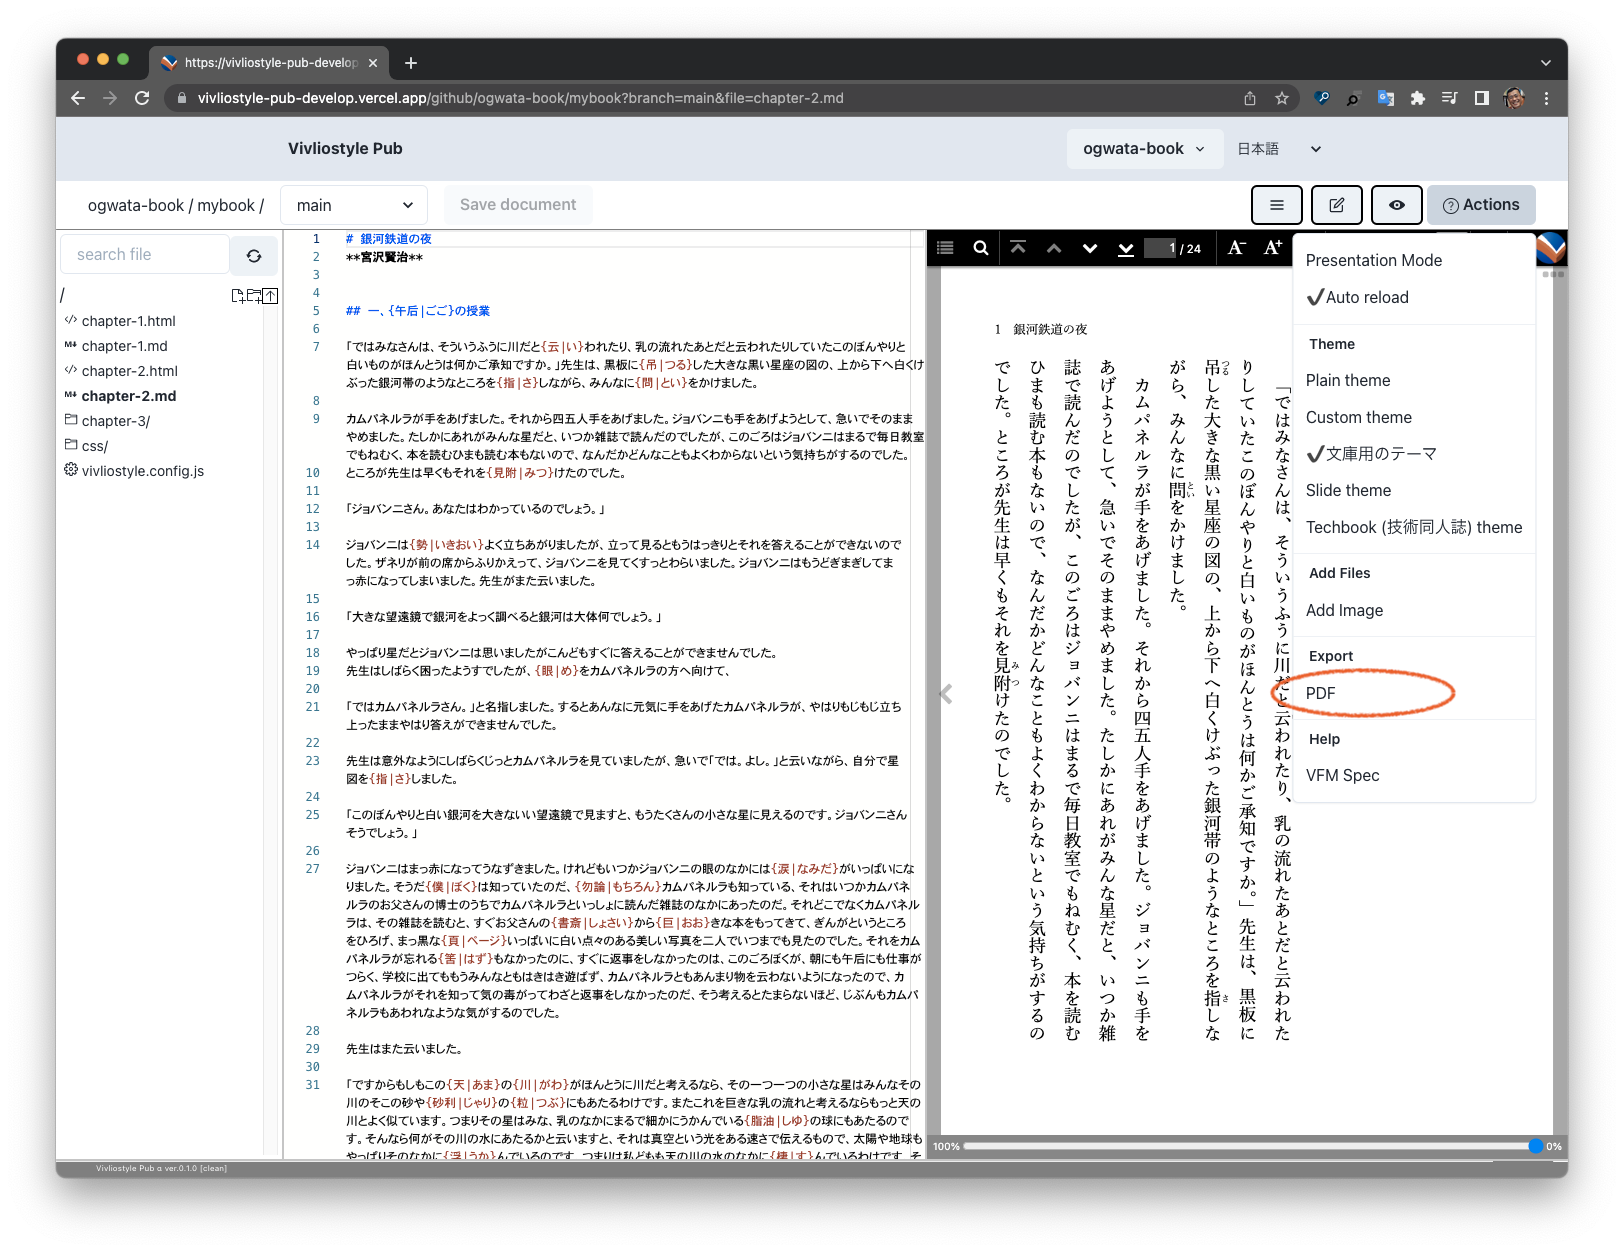
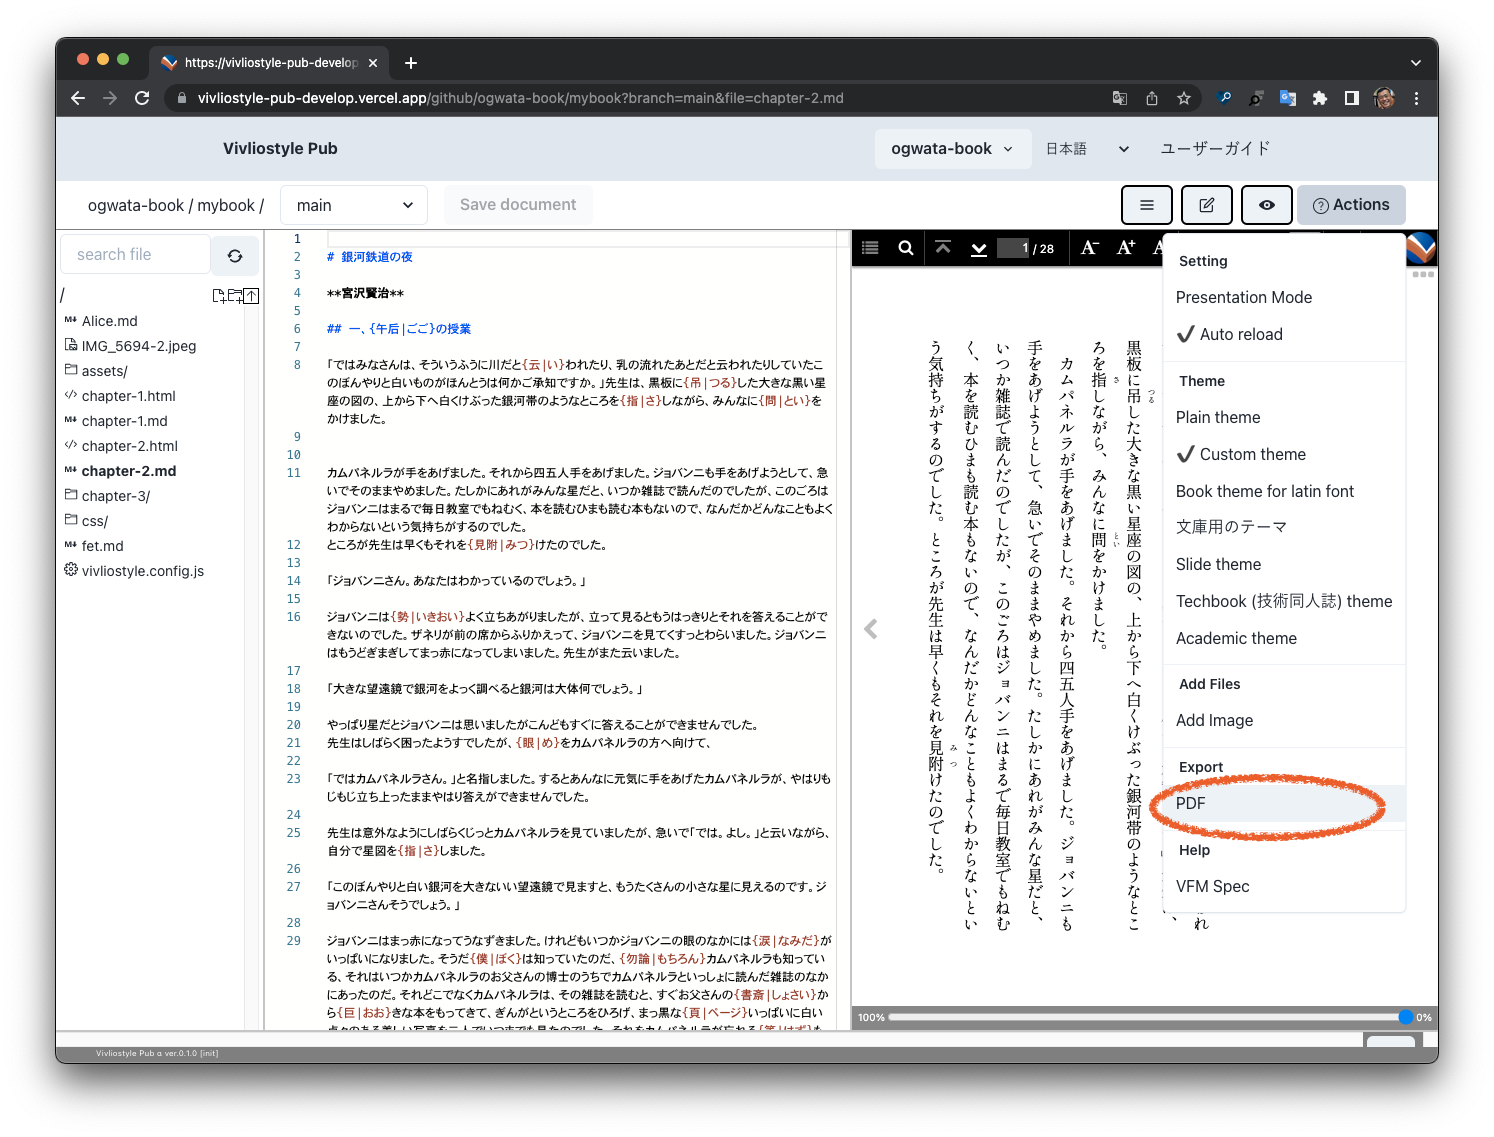
Export（PDF）

Changed region(s): [[0.0308, 0.0308, 0.9853, 0.9543]]

diff --git a/ja/functions-of-the-actions-menu/export.md b/ja/functions-of-the-actions-menu/export.md
@@ -2,6 +2,26 @@
 
 ## PDF
 
+ActionメニューでCustom themeが選択されている場合、PDFの出力ができます。
+
+出力されるファイルはvivliostyle.config.jsの記述にもとづきます（→[Theme（テーマの選択）> Custom theme](/ja/functions-of-the-actions-menu/theme.md#custom-theme)）。複数あるファイルのうち、特定のファイルだけをPDF出力したい場合は、vivliostyle.config.jsで出力したいファイルだけを記述するか、出力しないファイルをコメントアウトしてください。
+
+1. 「Actionメニュー > PDF」を選択します
+
 ![](images/functions-of-the-actions-menu/export/fig-1.png)
 
-PDFの出力は現在のバージョンでサポートされていません。
+2. すると、画面下端に「ビルドを開始しました」とメッセージが表示されます
+
+![](images/functions-of-the-actions-menu/export/fig-2.png)
+
+3. しばらく待つと、「以下のリンクをクリックして表示してください View  PDF」と表示されるので、「View  PDF」の部分をクリックしてください
+
+![](images/functions-of-the-actions-menu/export/fig-3.png)
+
+4. ブラウザのPDF閲覧画面に遷移します。ウィンドウ左上の下向き矢印「↓」（赤丸）をクリックするとPDFがダウンロードできます
+
+![](images/functions-of-the-actions-menu/export/fig-4.png)
+
+PDFを出力するしくみについては、下記も参照してください。
+
+- [文書の作成と保存 > フォントの指定方法 > フォントを表示するしくみ](/ja/create-and-save-documents/how-to-specify-fonts.md#フォントを表示するしくみ)

diff --git a/ja/functions-of-the-actions-menu/theme.md b/ja/functions-of-the-actions-menu/theme.md
@@ -36,13 +36,17 @@ Actionメニューの「Theme」の項目を選択することで、以下のテ
 
 ![ ](images/functions-of-the-actions-menu/theme/fig-3.png)
 
-この項目を選択すると、ユーザが作成した任意のスタイルシート（CSSファイル）が利用できます。vivliostyle.config.jsでスタイルシートのpathを指定してから（赤線部）、このメニュー項目を選択します。記法は下記の通りです。---の部分にpathを記述してください。
+この項目を選択すると、ユーザが作成した任意のスタイルシート（CSSファイル）が利用でき、さらにそのスタイルシートにもとづき、PDFの出力ができます（→[Export（PDF）](/ja/functions-of-the-actions-menu/export.md#export出力)）。
+
+vivliostyle.config.jsで以下のようにスタイルシートのpathを指定してください（赤線部）。記法は下記の通りです。---の部分にpathを記述してください。
 
 ```js
 module.exports = {
   theme: '---',
  }
 ```
+
+その上で、`Actionメニュー > Custom theme`を選択します。
 
 スタイルシートで指定できるフォントについては下記もご参照ください。
 
